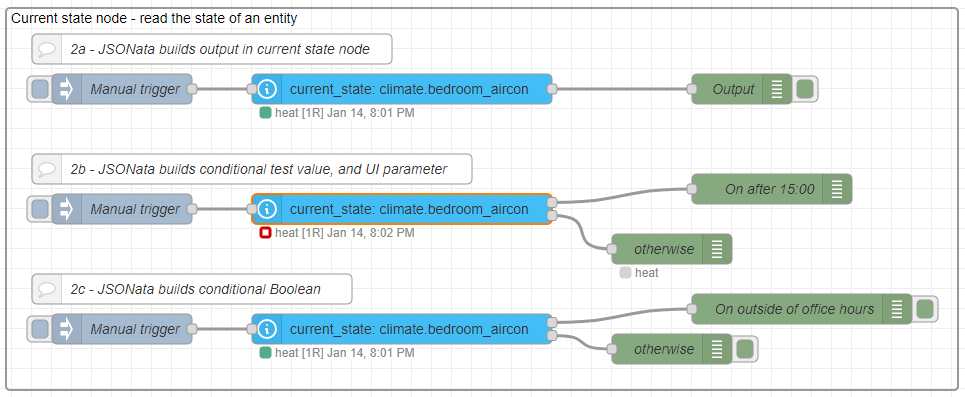
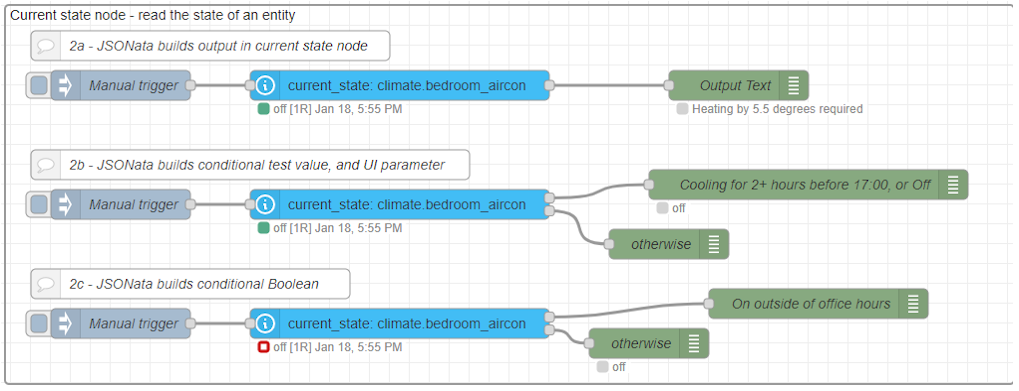
docs: JSONata refresh and update
Update guide and add examples to cookbook
Ex 1&2 checked

diff --git a/docs/cookbook/jsonata-1-call-service.md b/docs/cookbook/jsonata-1-call-service.md
@@ -1,40 +1,40 @@
 # JSONata Examples 1 - Call Service
 
-Integrations in Home Assistant provide service calls that can be used, for example, to set target temperature on heaters and air-conditioning units. All service calls can be found and tested within Home Assistant Developer toolbox, and it is also useful to check the integration documentation to identify exactly what is required for a successful service call.
+Integrations in Home Assistant provide _service calls_ that can be used, for example, to set target temperature on heaters and air-conditioning units. All service calls can be found and tested within Home Assistant Developer toolbox, and it is also useful to check the integration documentation to identify exactly what is required for a successful service call.
 
 **All service calls require:**
 
 - a domain (integration platform) such as 'climate',
 - a service call within this domain, such as 'set_temperature',
 - a target entity or entities (or area or device containing entities) to apply the service to,
-- a data _object_, containing any additional required and optional parameters.
+- a _data object_, containing any additional required and optional parameters.
 
-The data object will vary, depending on the integration and service call, from an empty object `{}` to something much more complex. Constructing this data object is key to a successful service call, and JSONata should ideally be used to achieve this rather than mustache templating.
+The data object will vary, depending on the integration and service call, from an empty object `{}` to something much more complex. Constructing this data object correctly is key to a successful service call, and **JSONata** rather than mustache templating should ideally be used to achieve this.
 
-**JSONata and the Service Call node:**
+**JSONata and the Call Service node:**
 
-For all Node-RED flows with a Service Call node, there are three locations where the data object can be defined.
+For Node-RED flows with a **Call Service** node there are three locations where the _data object_ can be defined.
 
 - Directly in the Service Call node UI 'Data' field, using the JSONata option.
-- In a preceeding Change Node, passing the Service Call settings in a _msg.payload object_.
-- In flow trigger nodes, such as Event State nodes, as an _output msg.payload object_.
+- In a preceeding Change Node, passing the Service Call settings in a _msg.payload_ object.
+- In flow trigger nodes, such as Events: state node, as an output _msg.payload_ object.
 
-There are advantages and drawbacks to each approach, and personal choice as well as the particular flow will influence your choice.
+There are advantages and drawbacks to each approach, and personal choice as well as the particular flow will influence your flow design.
 
 ![screenshot](./images/jsonata_1_1.png)
 
 Here are three examples, each using JSONata to set the required data object, and one example of using JSONata to process service call return data.
 
-@[code](@examples/cookbook/jsonata-new/service-call.json)
+@[code](@examples/cookbook/jsonata-examples/service_call.json)
 
 
-## Setting the Data field
+## Setting the _Data_ field
 
 ### Increase lights brightness with remote
 
-A remote with a button that when clicked increases the brightness of a given light by an amount that is set from an input_number inside Home Assistant.
+**Example:** A remote with a button that when clicked increases the brightness of a given light by an amount that is set from an input_number inside Home Assistant.
 
-JSONata expression in the Call Service node UI Data field - note that nothing special is required as input to this node as all the settings are completed within the node itself.
+JSONata expression in the Call Service node UI Data field. Nothing special is required as input to this node as all the settings are completed within the node itself.
 
 ```json
 {
@@ -48,7 +48,9 @@ JSONata expression in the Call Service node UI Data field - note that nothing sp
 
 ### Setting target temperature on air-conditioning unit
 
-Here a Change Node is used to build the large msg.payload object required to set the Call Service node parameters. In a Change Node, the special `$entity()` and `$entities()` functions are _not_ available, however we can still do things like read from global context using the Node-RED `$globalContext()` function.
+**Example:** Set the target temperature (and mode) for air-conditioning unit from msg.payload value.
+
+Here a Change node is used to build the msg.payload object required to set the Call Service node parameters, including the nested data field. In a Change node, the special WebSocket `$entity()` and `$entities()` functions are _not_ available, however we can still perform a read from global context using the Node-RED `$globalContext()` function.
 
 ```json
 {
@@ -60,18 +62,20 @@ Here a Change Node is used to build the large msg.payload object required to set
 }
 ```
 
-The Call Service node can accept one to many of the UI parameters in msg.payload, and where given these take precedence over any UI settings. Default settings can therefore be set in the UI, and then be over-riden by the input message, including settings from Inject Nodes as shown in the example.
+The Call Service node can accept from one to all of the UI parameters in msg.payload, and where given these take precedence over any UI settings. Default settings can therefore be set in the UI, and then be over-riden by the input message, including using settings from Inject nodes as shown in the example.
 
 ### Notification of lights left on when leaving home
 
-Get notified when lights or switches are left on when you leave. This example uses JSONata in two places in the Event: State node. The state value test is a JSONata expression that should return true to output a message. This code selects an array of all entity states for entities starting with 'person', and will return `true` if this contains any with state "home". The expression will only return false when no-one is home, and we can use the lower (condition fail) output.
+**Example:** Get notified when lights or switches are left on when you leave.
+
+This example uses JSONata in two places in the **Events: state** node. The state value test is a JSONata expression that must return true for the node to output a message (upper output). This code selects an array of all entity states for entities starting with 'person', and will return `true` if this array contains any with state "home". The expression will therefore only return `false` when no-one is home, and we can use the lower (condition fail) output rather than using the JSONata $not() function to look for '_not_ home'.
 
 ```json
 "home" in $entities().*[$substringBefore(entity_id,".")="person"].state
 ```
 
 
-JSONata is then used in the output properties, to create the required object for a notification service call. It uses `$entities().*` with a filter looking for those with "light" or "switch" in the entity_id and state "on", then selecting the friendly_name, and joining all found into a list in the message.
+JSONata is then also used in the output properties to create the required object for a notification service call. It uses `$entities().*` with a filter looking for those with "light" or "switch" in the entity_id and state "on", then selecting the friendly_name, and joining all those found into a string list in the message.
 
 The message title uses `$entity().attributes.friendly_name` to add the name of the person who just left home to the message title.
 
@@ -87,11 +91,13 @@ The message title uses `$entity().attributes.friendly_name` to add the name of t
 }
 ```
 
-In this example all the work is performed in the Event: State node, and the Service Call node accepts all the required parameters in the input msg.payload object.
+In this example all the parameter setup is performed in the Events: state node, and the Call Service node accepts all the required parameters from the input msg.payload object.
 
 ## Processing a service call return
 
-Home Assistant service calls can now provide data as a result of the call, and JSONata is an ideal tool to manage complex JSON object and array structures. This example uses JSONata to extract and manipulate weather forecasts, providing a summary in a modified format.
+Home Assistant service calls can provide data returned as a result of the call, and JSONata is an ideal tool to manage any resulting JSON object and array structures. This example uses JSONata to extract and manipulate weather forecasts, providing a summary in a modified format.
+
+**Example:** The forecast service call now returns an array of forecasts. JSONata is used to iterate over all forecast, returning an new object for each, with a time and arrays for tempeature, cloud coverage, and precipitation only.
 
 ```json
 results.*.forecast{
@@ -101,7 +107,6 @@ results.*.forecast{
    "rain": $.precipitation
 }
 ```
-The forecast service call now returns an array of forecasts. Here JSONata is used to iterate over all forecast, returning an new object for each, with a time and arrays for tempeature, cloud coverage, and precipitation only.
 
 **Also see:**
 

diff --git a/docs/cookbook/jsonata-2-current-state.md b/docs/cookbook/jsonata-2-current-state.md
@@ -1,55 +1,72 @@
 # JSONata Examples 2 - Current State
 
-The Current State node has several opportunites to use JSONata. This example demonstrates all of these, using a node to fetch the current state of a climate air-conditioning unit.
+The **Current State** node has several opportunites to use JSONata. This example demonstrates all of these, using a node to fetch the current state of a climate air-conditioning unit.
 
-The node default output values include setting msg.payload to the _state_ (which will be "off", "heat", "cool" or more, depending on the integration) as well as msg.data to the entire _entity data object_. This hold values for the last changed timestamp, and attributes such as the friendly name and other integration dependent settings.
+The default output values for this node include setting **msg.payload** to the _state_ (which for an A/C unit will be "off", "heat", "cool" or more, depending on the integration) as well as **msg.data** to the entire _entity data object_. This holds values for the last changed timestamp as well as attributes such as the friendly name and other integration dependent settings.
 
 ![screenshot](./images/jsonata_2_1.png)
 
-Here are three examples, looking at using JSONata to build output properties, to perform If-State conditional tests, and to provide calculated values for UI settings.
+Here are three examples, showing how to use JSONata to build **output properties**, to perform **If-State conditional tests**, and to provide **calculated values for UI settings**.
 
-@[code](@examples/cookbook/jsonata-new/current-state.json)
+@[code](@examples/cookbook/jsonata-examples/current-state.json)
 
 ### Creating output properties
 
-Build an output message property.
+**Example:** Report the difference between room temperature and target tempterature for an air-conditioning unit.
 
+In the first example we are looking to retrieve the current state and attributes from an air-conditioning unit, and output a text message describing the difference between current and target temperature. The A/C unit current temperature (read only) and the A/C unit target temperature (can be set with a service call) are located in the entity attributes. These are both numbers, so it is very easy to calculate the difference.
 
-### Generating UI field setting values
+Using JSONata to build an output message property, there is no necessity to retain the default settings for msg.data unless this is required later in the flow.
 
-Calcuate a setting value in place of a literal.
+```json
+(
+    $att:=$entity().attributes;
+    $diff:=$att.temperature-$att.current_temperature;
+    ($diff>0 ? "Heating" : "Cooling") & " by " & $abs($diff) & " degrees required"
+)
+```
+### Providing a conditional test value (JSONata expression as a value)
 
-### Providing a conditional test value
+**Example:** Output only where the A/C unit has been cooling for two hours and the local time is before 17:00, or when the unit is off.
 
-The entity state nodes provide a _conditional test_ opportunity, which can be used to direct the message output one of two ways, depending whether the entity state passes or fails the condition.
-
-When the "If State" option is chosen with a _conditional_ (not JSONata) the condition expects a _value_ to test against. Using JSONata on the right hand side will return the value of the evaluated expression to be tested against the conditional chosen.
+The Current state node provides for a _state value test_ opportunity, which if set can be used to direct the message output one of two ways, depending whether the entity state passes or fails the test. When the **If State** option is chosen with a _conditional_ (not JSONata) the condition expects a _value_ to test against. In this example, using JSONata on the right hand side will return the _value_ of the evaluated expression ("cool" before 17:00 and "off" otherwise) to be tested against the current state value and with conditional chosen.
 
 ![screenshot](./images/jsonata_value.png)
 
-In this example, the entity returns**
 
-### Conditional test (Boolean)
+```json
+$entities('sensor.time').state < "17:00" ? "cool" : "off"
+```
+### Generating UI field setting values
+The Current state node also allows for a **For**, or _duration of state_ test, and here JSONata is again being used to return either '0' when the state is "off" or '2' (hours) when the state is not "off". This complex arrangement will together test for the A/C unit being either immediately off after 17:00, or in cooling mode for at least two hours before 17:00.
 
-When the "If State" option is chosen with _JSONata_, then the right hand side must be a JSONata expression that returns a Boolean value of either true or false. When true the "If State" test is successful, when false the test fails.
+```json
+$entity().state = "off" ? 0 : 2
+```
 
-The JSONata at this point can be extensive, using `$entity()` to read details from the current node entity, or `$entities()` to read any entity available.
+Note that here the use of `$entity().state` returns the current state of the node's subject entity, and that `$entities('sensor.time').state` returns the state of another specified entity. The [Time & Date Integration](https://www.home-assistant.io/integrations/time_date/) should be added to the configuration file, and then the time sensor will return the current local time. This is useful for local-time condition testing, whereas the time_utc sensor will return UTC-time which is more useful with Home Assistant timestamps.
+
+
+
+
+### Conditional test (JSONata expression as a Boolean result)
+
+**Example:** Report the air-conditioning unit on outside of office hours.
+
+When the **If State** option is chosen with _JSONata_ (not a conditional) then the right hand side must be a JSONata expression that returns a Boolean value of either `true` or `false`. When true the "If State" test is successful (the message is output from the top exit) when false the test fails (the message is output from the lower exit).
+
+
 
 ![screenshot](./images/jsonata_boolean.png)
 
-
-
-
-### 
-
-### OR conditional for the events: state node
-
-The trigger-state node is great if you have several conditions you want to check for but it doesn't allow you to use OR checks. Using a JSONata expression with an event:state node will allow you to fill this gap.
-
-Motion sensor at the front door triggers and have a text to speech notification be sent if at least one person is home.
+In this example the JSONata expression is a code block, obtaining the node subject entity state and separate entity local time as in the previous example, but now combining both into one predicate expression. If the local time is outside 09:00 to 17:00 _and_ the state is either heat or cool, then the expression will return `true`.
 
 ```json
-$entity().state = "on" and (
-   $entities("person.person1").state = "home" or $entities("person.person2").state = "home"
+(
+    $state:=$entity().state;
+    $time:=$entities('sensor.time').state;
+    ($time<="09:00" or $time>="17:00") and ($state="heat" or $state="cool")
 )
 ```
+
+The JSONata at this point can be extensive, using and combination of entity states or attributes and Boolean logic as required. The use of OR to combine various states can only be acheived in this way.

diff --git a/docs/cookbook/jsonata-3-events-state.md b/docs/cookbook/jsonata-3-events-state.md
@@ -77,3 +77,16 @@ The Events: State node receives state change events for one or more entities, an
 )
 
 ```
+
+
+### OR conditional for the events: state node
+
+The **trigger-state** node is great if you have several conditions you want to check for but it doesn't allow use of OR conditions. Using a JSONata expression with an **event:state** node will allow you to fill this gap.
+
+Motion sensor at the front door triggers and have a text to speech notification be sent if at least one person is home.
+
+```json
+$entity().state = "on" and (
+   $entities("person.person1").state = "home" or $entities("person.person2").state = "home"
+)
+```
